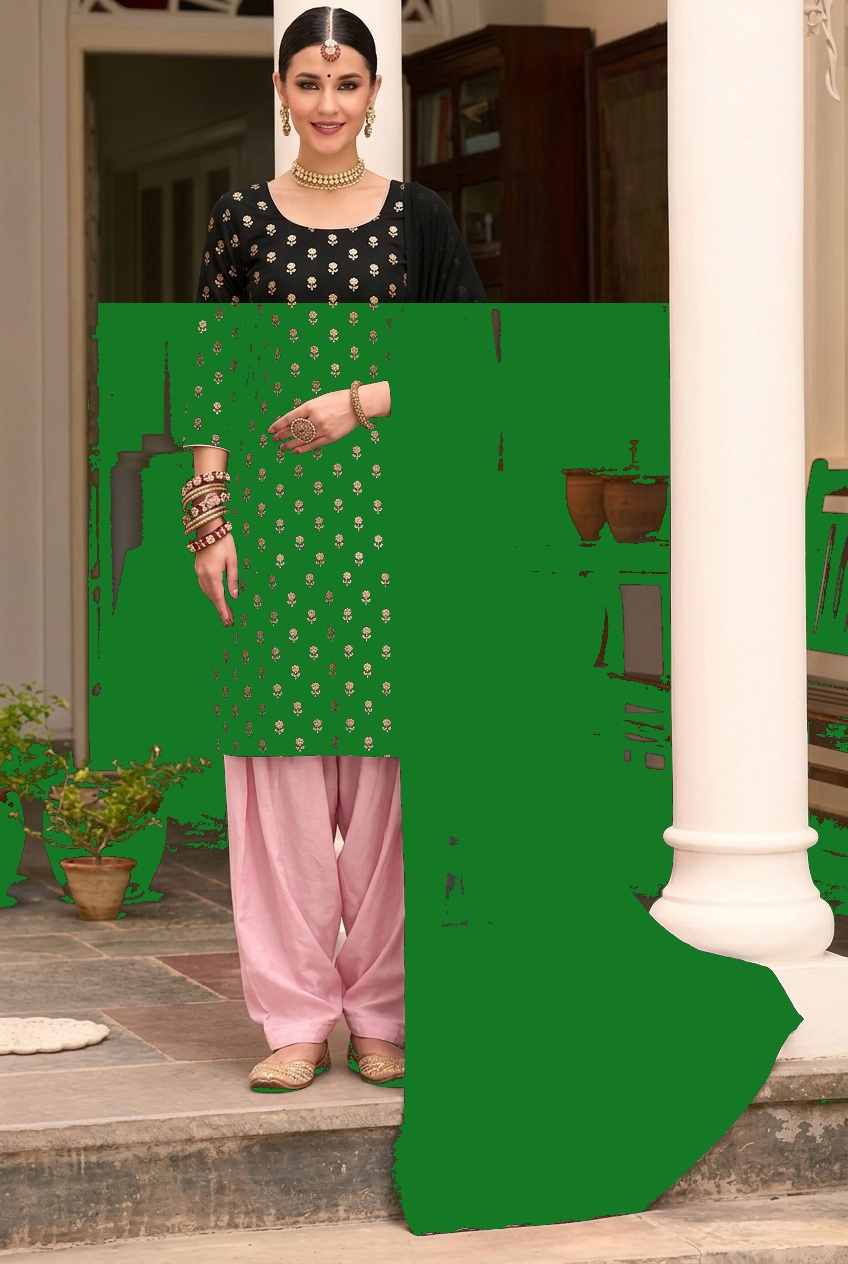
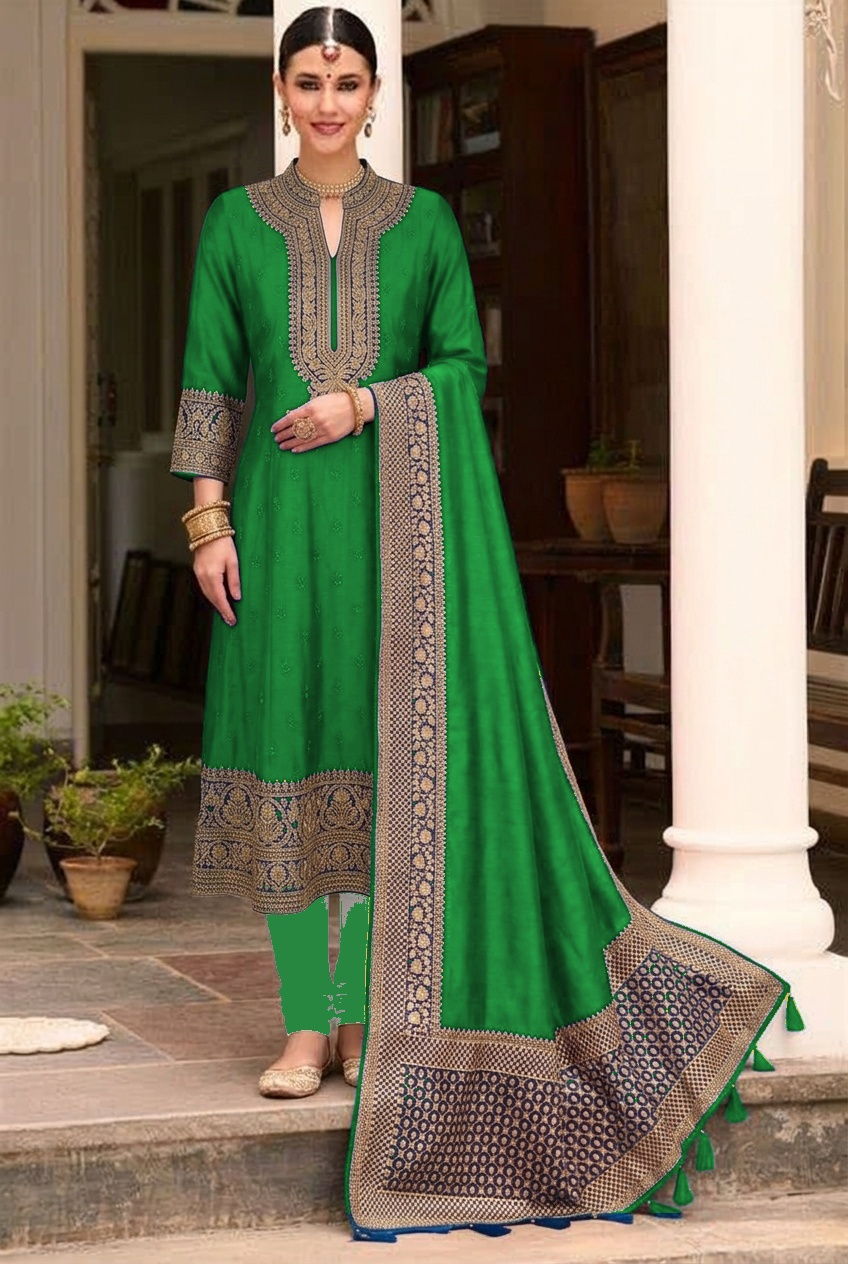
feat: integrate clean white sequence anarkali, emerald green suit, and royal purple gown tryon suite

diff --git a/app.py b/app.py
@@ -355,14 +355,17 @@ HTML_PAGE = """<!DOCTYPE html>
                 <label class="form-label">Select Reference Dataset Garment (Verified Styles):</label>
                 <select id="categorySelect" onchange="onCategoryChanged()">
                     <option value="gold_embellished_jumpsuit">1. Champagne Gold Embellished Gown (Full Sleeves)</option>
-                    <option value="blue_denim_jeans">2. Light Blue Slim Denim Jeans</option>
-                    <option value="gingham_check_shirt">3. Black &amp; White Gingham Check Shirt</option>
-                    <option value="black_polo_tshirt">4. Black Collared Polo T-Shirt</option>
-                    <option value="black_printed_kurti_set">5. Black Printed Kurti &amp; Pink Salwar</option>
-                    <option value="pink_crop_skirt_set">6. Hot Pink Crop Top &amp; Mini Skirt Set</option>
-                    <option value="fuchsia_collared_shirt">7. Fuchsia Pink Collared Shirt &amp; Shorts</option>
-                    <option value="yellow_silk_saree">8. Mustard Yellow Silk Saree</option>
-                    <option value="pink_embroidered_saree">9. Magenta Pink Embroidered Saree</option>
+                    <option value="white_embroidered_anarkali">2. White Sequence Embroidered Anarkali Suit</option>
+                    <option value="emerald_green_suit">3. Emerald Green Flared Sharara Suit &amp; Dupatta</option>
+                    <option value="purple_maxi_dress">4. Royal Purple Tiered Flared Maxi Gown</option>
+                    <option value="blue_denim_jeans">5. Light Blue Slim Denim Jeans</option>
+                    <option value="gingham_check_shirt">6. Black &amp; White Gingham Check Shirt</option>
+                    <option value="black_polo_tshirt">7. Black Collared Polo T-Shirt</option>
+                    <option value="black_printed_kurti_set">8. Black Printed Kurti &amp; Pink Salwar</option>
+                    <option value="pink_crop_skirt_set">9. Hot Pink Crop Top &amp; Mini Skirt Set</option>
+                    <option value="fuchsia_collared_shirt">10. Fuchsia Pink Collared Shirt &amp; Shorts</option>
+                    <option value="yellow_silk_saree">11. Mustard Yellow Silk Saree</option>
+                    <option value="pink_embroidered_saree">12. Magenta Pink Embroidered Saree</option>
                 </select>
 
                 <label class="form-label">Garment File (Filtered to inputs/garments/&lt;category&gt;/):</label>
@@ -484,6 +487,21 @@ HTML_PAGE = """<!DOCTYPE html>
                 garment: '/assets/dataset_14/garments/gold_embellished_jumpsuit.jpg',
                 tryon: '/assets/dataset_14/tryons/gold_embellished_jumpsuit.jpg',
                 files: ['gold_embellished_jumpsuit.jpg']
+            },
+            'white_embroidered_anarkali': {
+                garment: '/assets/dataset_14/garments/white_embroidered_anarkali.jpg',
+                tryon: '/assets/dataset_14/tryons/white_embroidered_anarkali.jpg',
+                files: ['white_embroidered_anarkali.jpg']
+            },
+            'emerald_green_suit': {
+                garment: '/assets/dataset_14/garments/emerald_green_suit.jpg',
+                tryon: '/assets/dataset_14/tryons/emerald_green_suit.jpg',
+                files: ['emerald_green_suit.jpg']
+            },
+            'purple_maxi_dress': {
+                garment: '/assets/dataset_14/garments/purple_maxi_dress.jpg',
+                tryon: '/assets/dataset_14/tryons/purple_maxi_dress.jpg',
+                files: ['purple_maxi_dress.jpg']
             },
             'blue_denim_jeans': {
                 garment: '/assets/dataset_14/garments/blue_denim_jeans.jpg',
